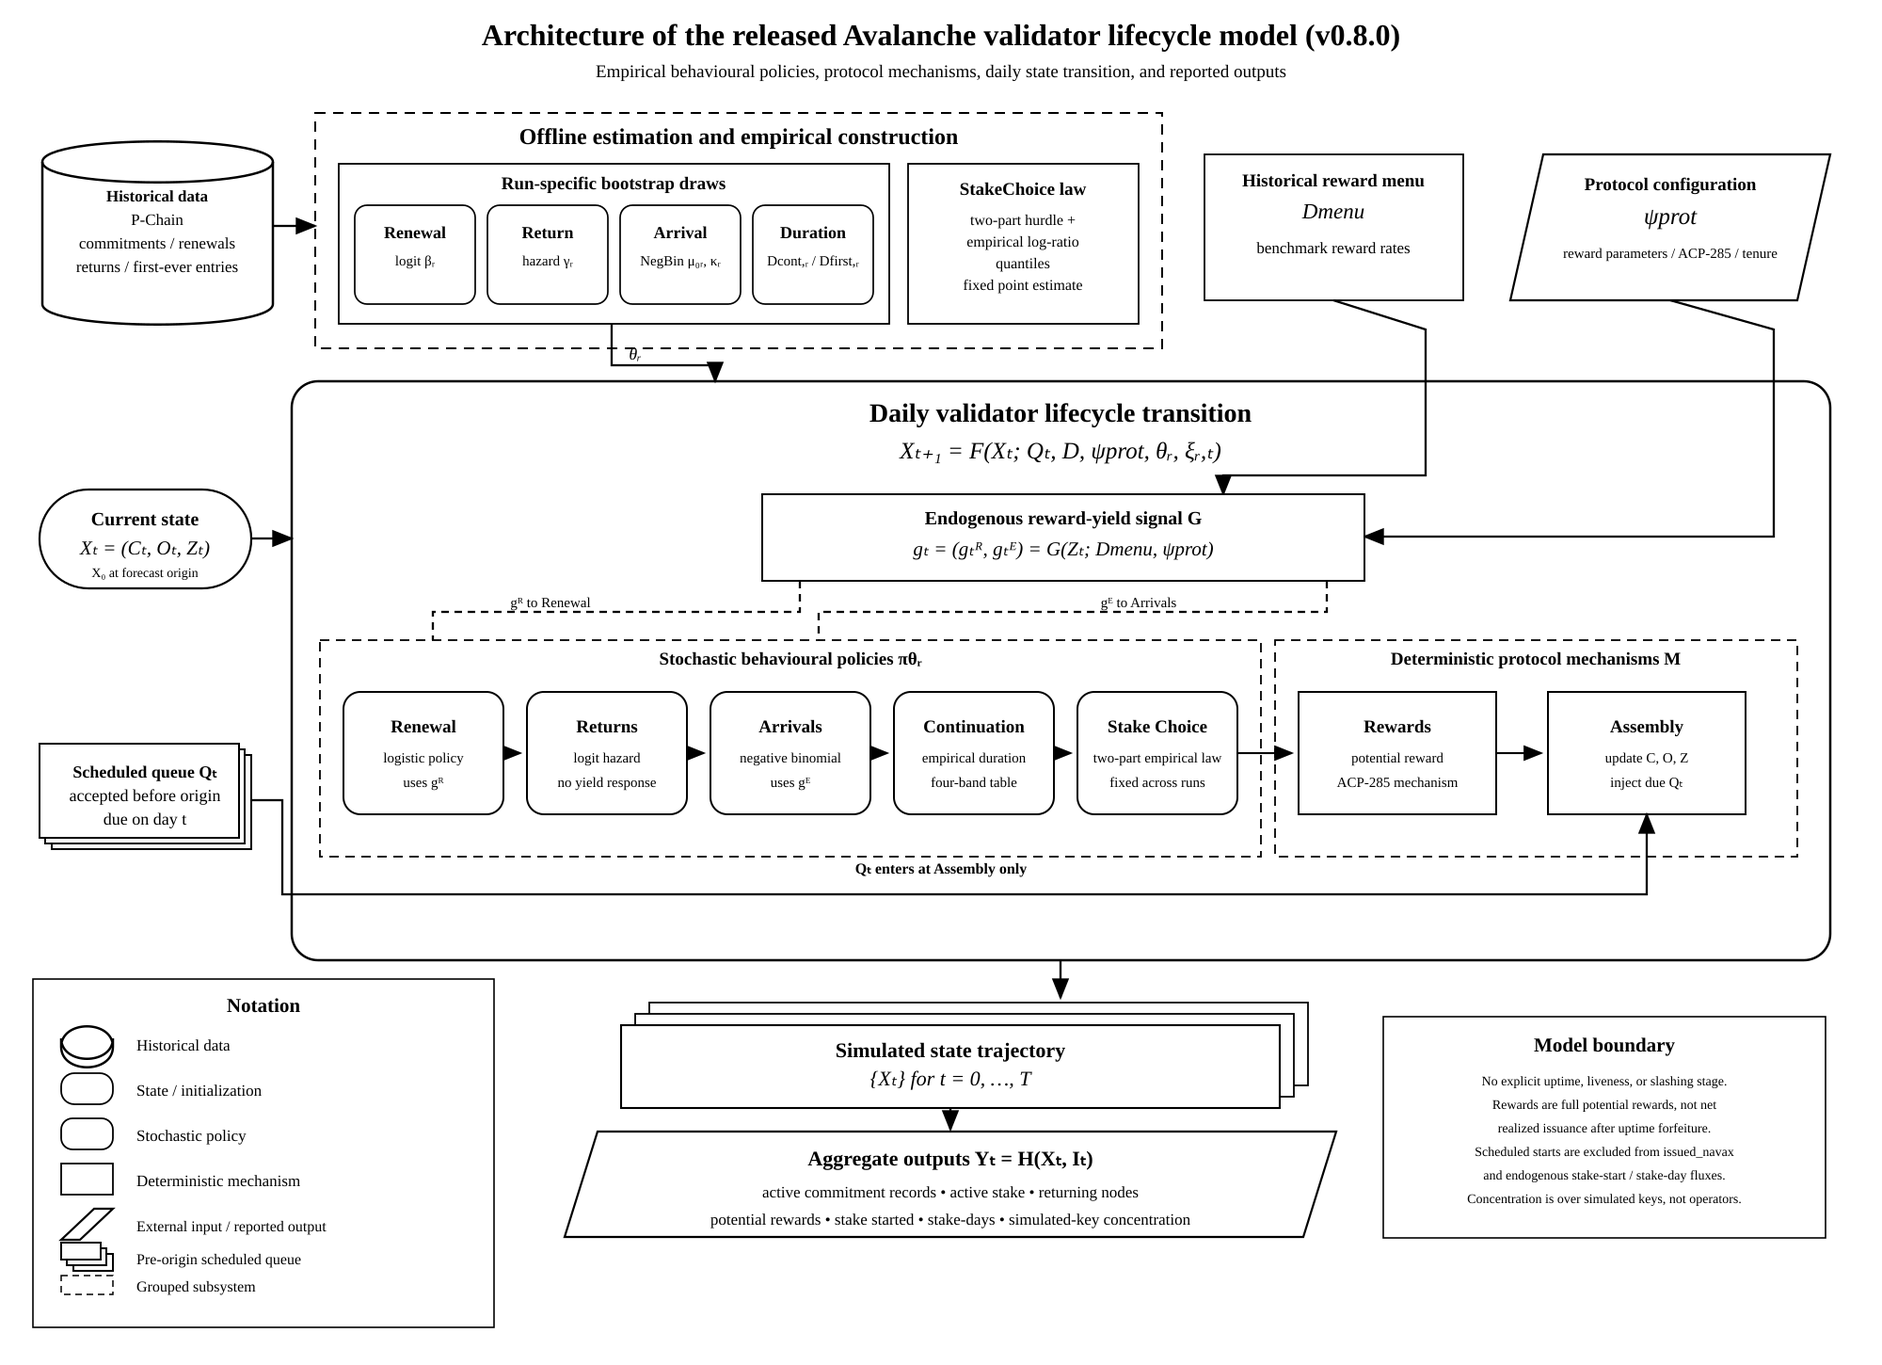
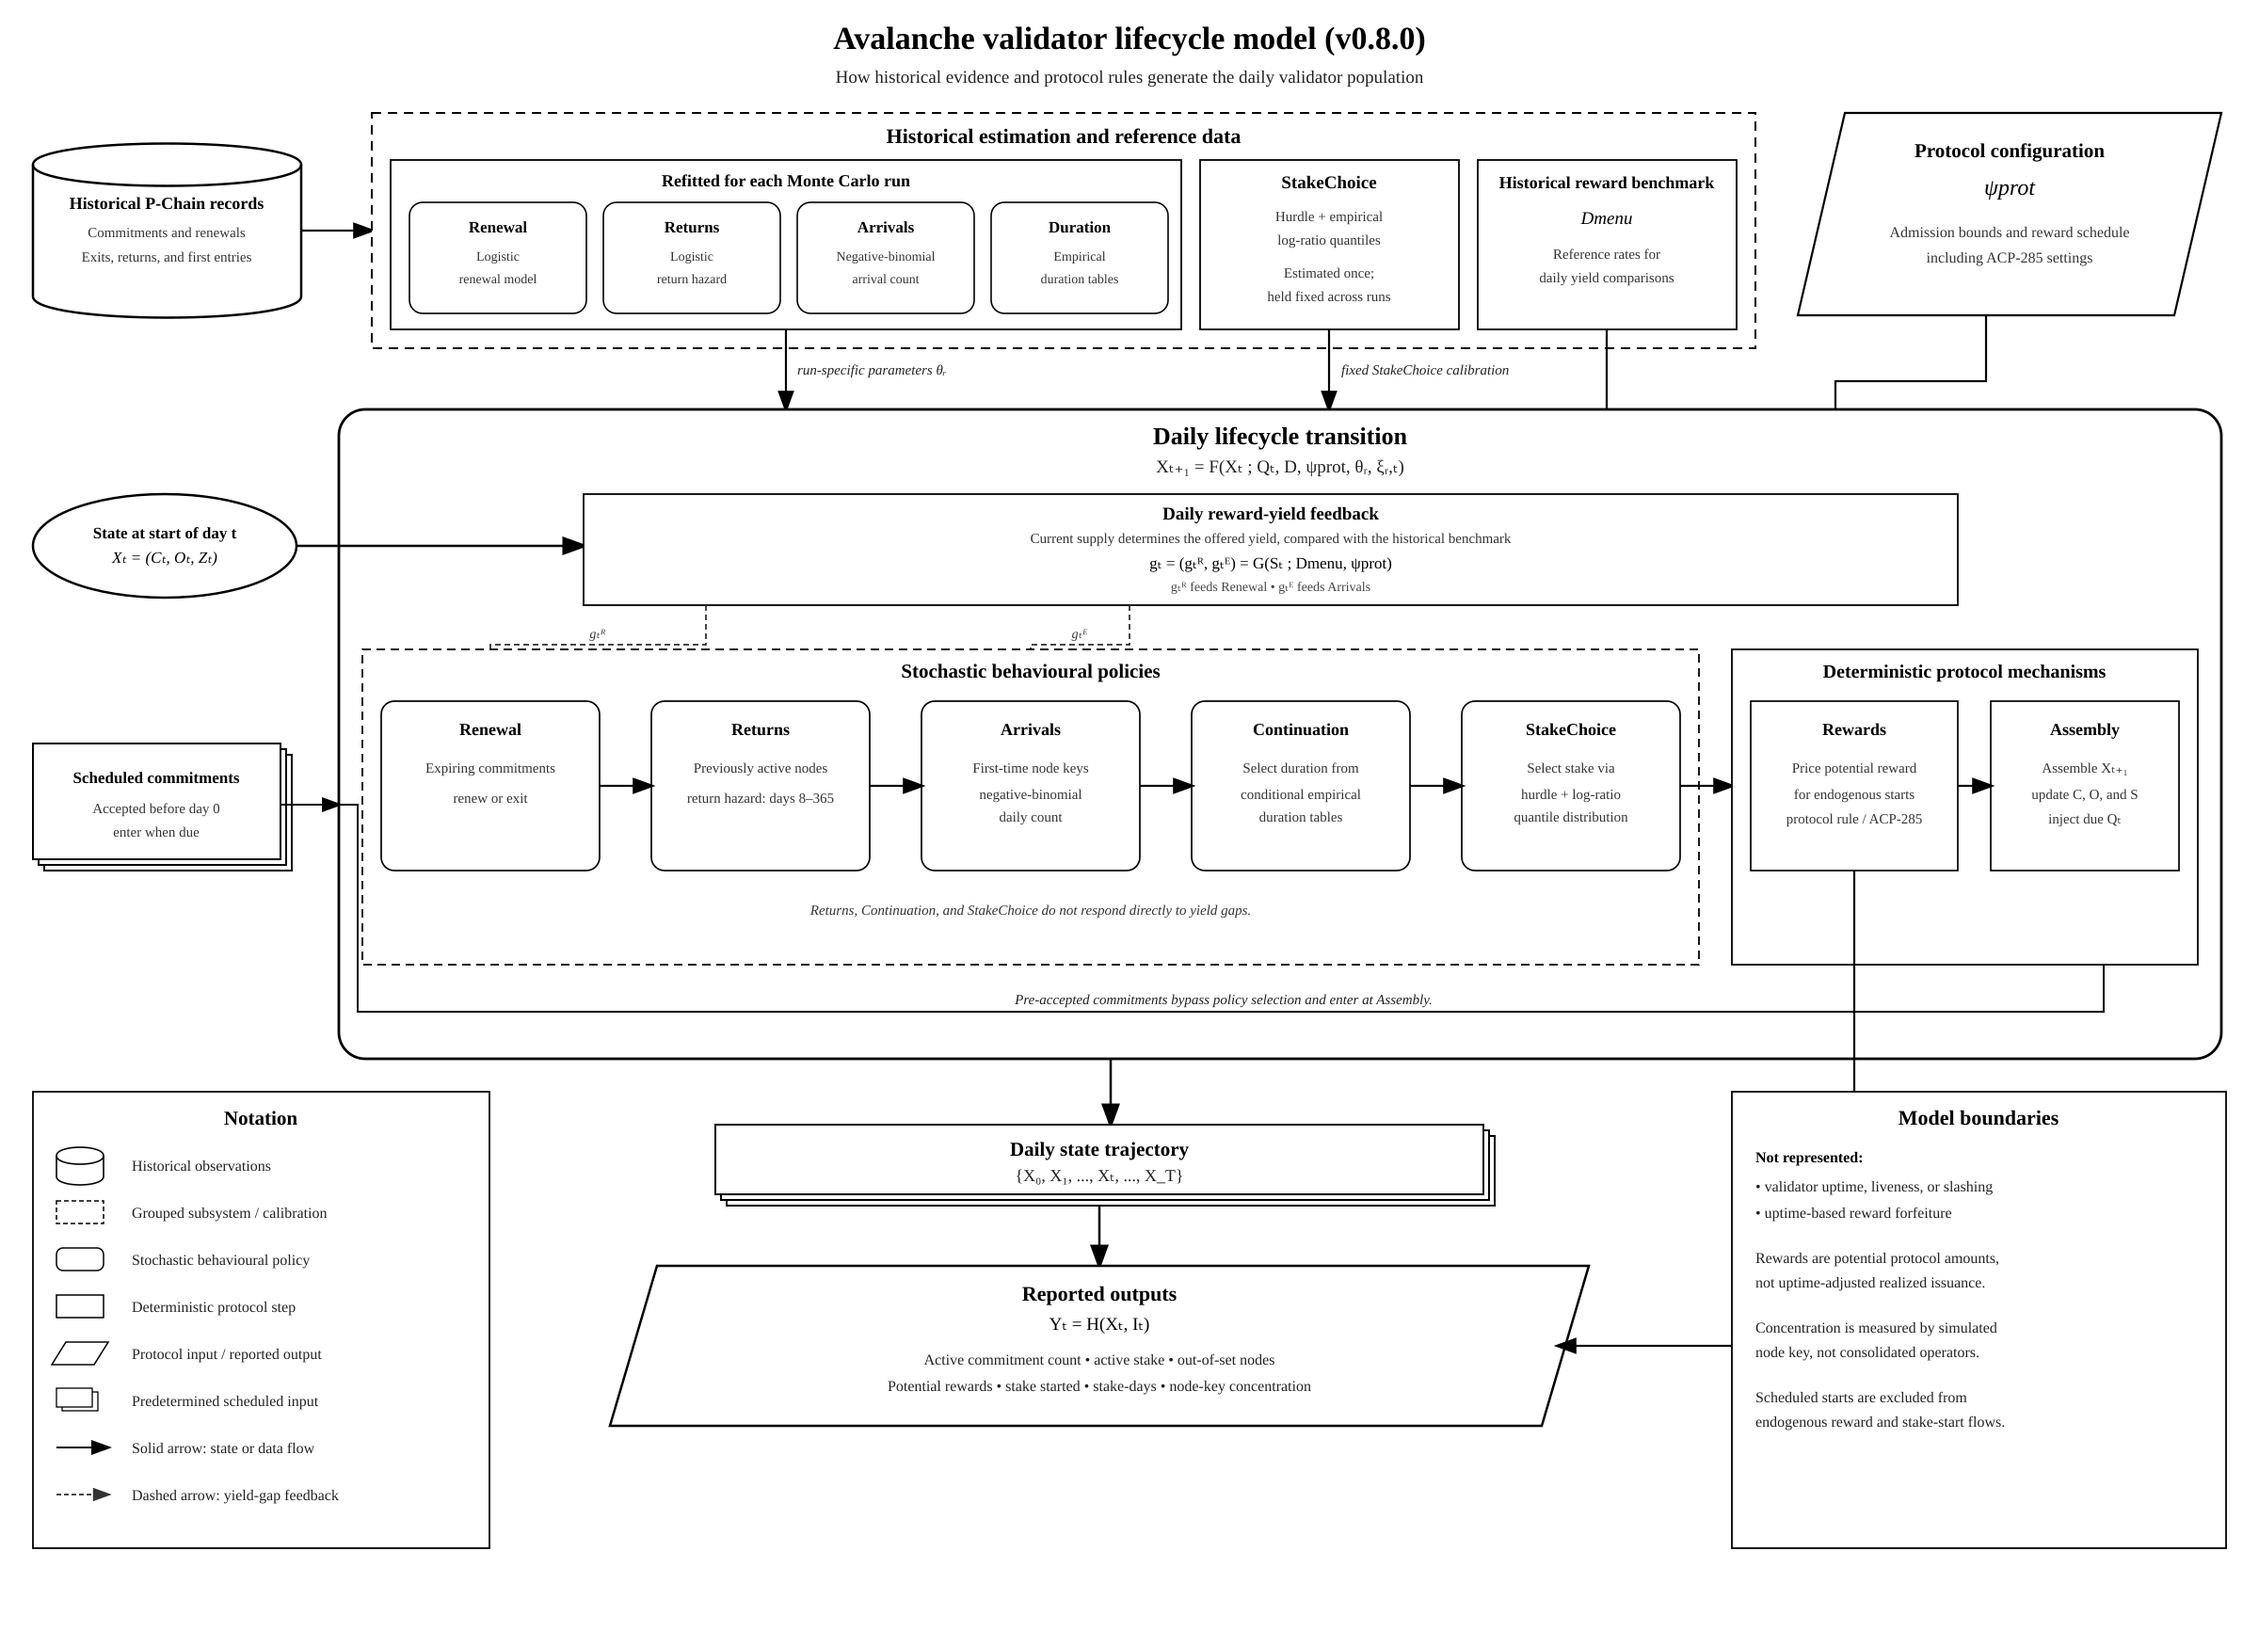
Fix LaTeX math mode underscores and layout typography in model architecture diagram

diff --git a/docs/research/model-v0.8-characterization.md b/docs/research/model-v0.8-characterization.md
@@ -970,8 +970,8 @@ These draws include:
 The model generates these random values with a deterministic, stateless keyed pseudo-random number generator (PRNG). Each draw is associated with a structured key:
 
 $$
-\text{PRNG\textunderscore Key}=\mathrm{Hash}\left(
-\text{master\textunderscore seed},r,t,\text{stage\textunderscore tag},k_{\text{entity}}
+\text{PRNG\_Key}=\mathrm{Hash}\left(
+\text{master\_seed},r,t,\text{stage\_tag},k_{\text{entity}}
 \right)
 $$
 
@@ -1038,7 +1038,7 @@ $$
 The `nakamoto_third_nodes` metric is the smallest number of node keys whose combined stake strictly exceeds one-third of total active stake:
 
 $$
-\text{nakamoto\textunderscore third\textunderscore nodes}_t=
+\text{nakamoto\_third\_nodes}_t=
 \min\left\lbrace
  m:\sum_{j=1}^{m}S_{(j),t}
  \gt\frac{1}{3}\sum_{i\in C_t}s_{i,t}

diff --git a/docs/research/model_characterization_hackmd_revised.md b/docs/research/model_characterization_hackmd_revised.md
@@ -970,8 +970,8 @@ These draws include:
 The model generates these random values with a deterministic, stateless keyed pseudo-random number generator (PRNG). Each draw is associated with a structured key:
 
 $$
-\text{PRNG\textunderscore Key}=\mathrm{Hash}\left(
-\text{master\textunderscore seed},r,t,\text{stage\textunderscore tag},k_{\text{entity}}
+\text{PRNG\_Key}=\mathrm{Hash}\left(
+\text{master\_seed},r,t,\text{stage\_tag},k_{\text{entity}}
 \right)
 $$
 
@@ -1038,7 +1038,7 @@ $$
 The `nakamoto_third_nodes` metric is the smallest number of node keys whose combined stake strictly exceeds one-third of total active stake:
 
 $$
-\text{nakamoto\textunderscore third\textunderscore nodes}_t=
+\text{nakamoto\_third\_nodes}_t=
 \min\left\lbrace
  m:\sum_{j=1}^{m}S_{(j),t}
  \gt\frac{1}{3}\sum_{i\in C_t}s_{i,t}
